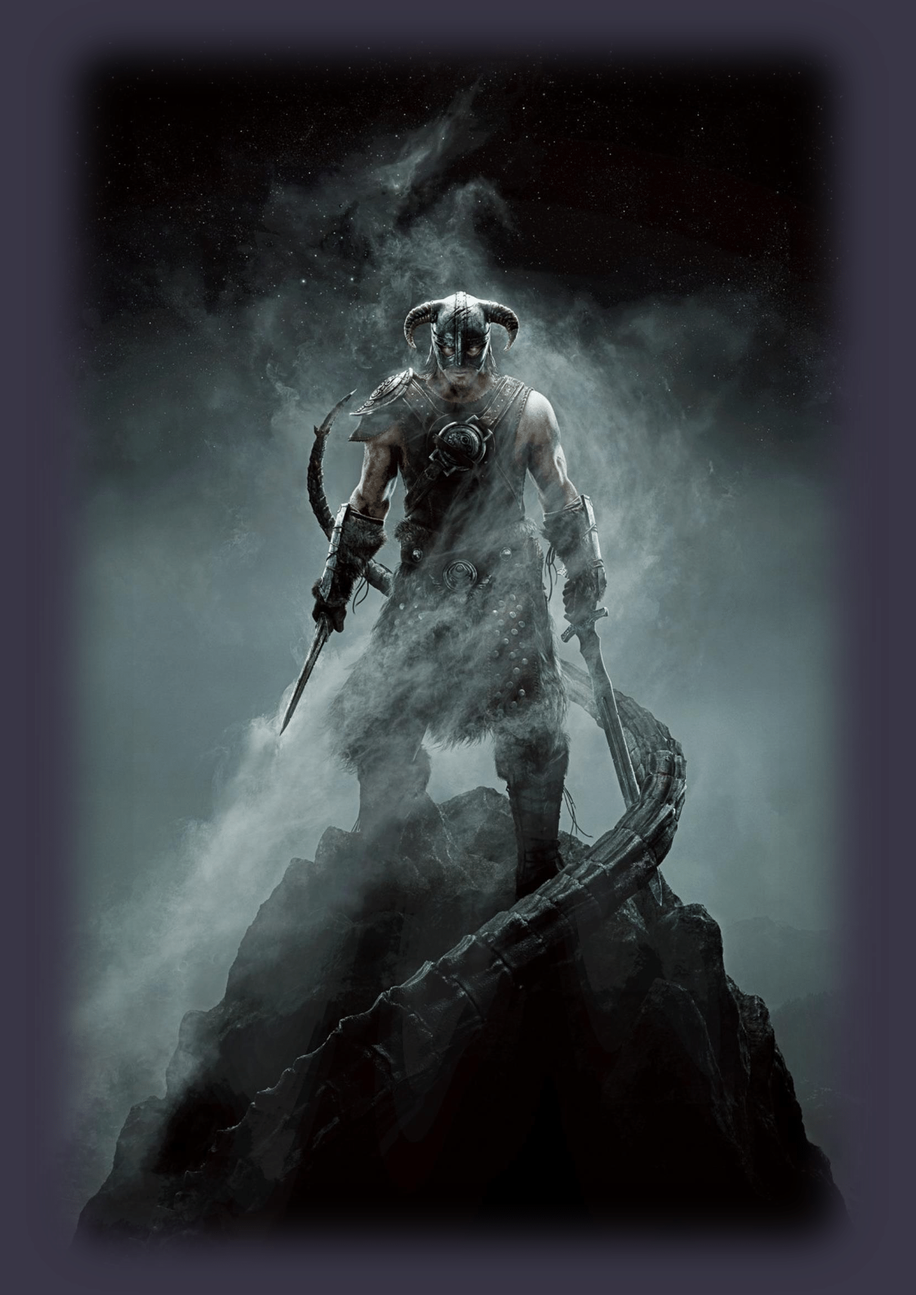
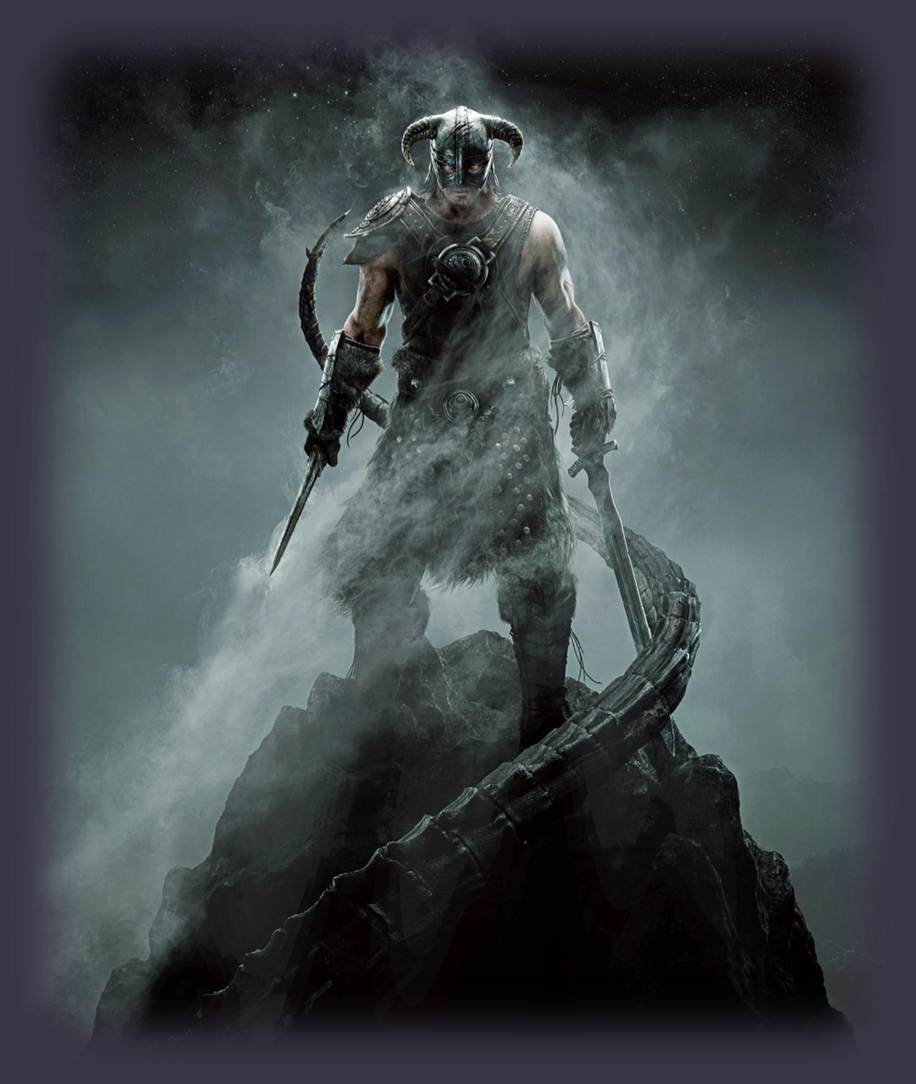
0.0.6

diff --git a/index.html b/index.html
@@ -82,17 +82,14 @@ bottom:0%;
 
 #cont-img {
     opacity: 0.5;
-    height: 600px;
-    width: 500px;
+    height: 750px;
     border-radius: 2%;
-    position: relative;
-    z-index: 1;
+    position: absolute;
 }
 
 .central-img{
     display: flex;
-    position: relative;
-    z-index: 1;
+    justify-content: center;
     
 }
 
@@ -109,8 +106,8 @@ bottom:0%;
     justify-items: center;
     padding: 10px;
     background-color: #343140;
-    box-shadow: 0px 1px 60px 0px #282631;
-    border-radius: 2%;
+    box-shadow: 0px 0px 10px 0px #282631;
+    border-radius: 3%;
     margin-bottom: 10px;
 }
 
@@ -123,8 +120,8 @@ bottom:0%;
     justify-content: space-evenly;
     padding: 10px;
     background-color: #343140;
-    box-shadow: 0px 1px 60px 0px #282631;
-    border-radius: 2%;
+    box-shadow: 0px 0px 10px 0px #282631;
+    border-radius: 3%;
     width: 90%;
     
 }
@@ -307,7 +304,7 @@ text-decoration: none;
 
 #search-container {
     position: relative;
-    width: 60%;
+    width: 70%;
     border: 2px solid #F4EEE0;
     border-radius: 20px;
     padding: 10px 10px 12px 4px;
@@ -352,8 +349,8 @@ input[type=text] {
     padding-right: 0px;
     padding: 10px;
     background-color: #343140;
-    box-shadow: 0px 1px 60px 0px #282631;
-    border-radius: 2%;
+    box-shadow: 0px 0px 10px 0px #282631;
+    border-radius: 3%;
     height: 740px;
     overflow-y: auto;
     }
@@ -513,15 +510,24 @@ text-decoration: underline;
 }
 
 .quote{
-    position: relative;
+    position: absolute;
+    top: 70%;
     z-index: 2;
     border: none;
     color:#D1BB9E;
-    text-decoration: none;
     font-size: 25px;
     font-weight:bold;
     font-family: Copperplate Gothic;
-    text-align: center; 
+    text-align: center;
+    line-height: 35px;
+}
+.little{
+    display: flex;
+    align-items: flex-end;
+    font-family: Copperplate Gothic;
+    color: #F4EEE0;
+    font-size: 20px;
+    margin-bottom: 8%;
 }
 
 </style>
@@ -531,7 +537,7 @@ text-decoration: underline;
             <div class="search-rect">
                 <div id="search-container">
                     <div>
-                        <input type="text" id="search-bar" placeholder="Pesquisar">
+                        <input type="text" id="search-bar" placeholder="Pesquisar...">
                         <button id="search-btn">
                             <i class="fa fa-search" alt="ícone de pesquisa" style="filter: invert(100%) sepia(100%) saturate(20%) hue-rotate(64deg) brightness(103%) contrast(101%);"></i>
                         </button>
@@ -748,8 +754,11 @@ text-decoration: underline;
         
 
         <div class="central-img">
-            <div class= "quote"> jhnonny bravo</div>
-            <img id="cont-img" src="https://i.ibb.co/ft26dRF/Document-1-1.png">
+            <div class= "quote">
+                DESCUBRA NOVAS EXPERIÊNCIAS. <br>SALVE O QUE VOCE QUER JOGAR. <br> RECOMENDE O QUE É BOM.          
+            </div>
+            <img id="cont-img" src="https://i.ibb.co/PcDxvVt/central.png">
+            <div class="little">A rede social feita para você, gamer.</div>
         
         </div>
 
@@ -757,6 +766,7 @@ text-decoration: underline;
             <div class="internal-rect">
                 <div class="title">LISTAS POPULARES</div>
                 <div class="container">
+                    
                     <div class="reviewbox" id="review-box">
                             <div><a href="#"><img src="https://upload.wikimedia.org/wikipedia/en/4/46/Video_Game_Cover_-_The_Last_of_Us.jpg" class="game-cover"></a></div>
                         <div class="review-text">
@@ -771,7 +781,7 @@ text-decoration: underline;
                                   
                                 </div>
                             <div class="rectangle">
-                                <p>Esta é uma resenha do jogo. O jogo foi abandonado no Nintendo Switch. A resenha do jogo. O jogo foi abandonado no Nintendo Switch. Aqui está um resu resenha do jogo. O jogo foi abandonado no Nintendo Switch. Aqui está um resu resenha do jogo. O jogo foi abandonado no Nintendo Switch. Aqui está um resu resenha do jogo. O jogo foi abandonado no Nintendo Switch. Aqui está um resuqui está um resumo da minha experiência...</p>
+                                <p>Lorem ipsum dolor sit amet, consectetur adipisci elit, sed eiusmod tempor incidunt ut labore et dolore magna aliqua. Ut enim ad minim veniam, quis nostrum exercitationem ullam corporis suscipit laboriosam, nisi ut aliquid ex ea commodi consequatur. Quis aute iure reprehenderit in voluptate velit esse cillum dolore eu fugiat nulla pariatur. Excepteur sint obcaecat cupiditat non proident, sunt in culpa qui officia deserunt mollit anim id est laborum.</p>
                             </div>
 
                             <button class="expand-button" onclick="expandText()"><img class="img-expand" style="filter: invert(100%) sepia(100%) saturate(20%) hue-rotate(64deg) brightness(103%) contrast(101%);" src="/expand.png" alt="expand"></button>
@@ -807,7 +817,7 @@ text-decoration: underline;
                               
                             </div>
                         <div class="rectangle">
-                            <p>Esta é uma resenha do jogo. O jogo foi abandonado no Nintendo Switch. A resenha do jogo. O jogo foi abandonado no Nintendo Switch. Aqui está um resu resenha do jogo. O jogo foi abandonado no Nintendo Switch. Aqui está um resu resenha do jogo. O jogo foi abandonado no Nintendo Switch. Aqui está um resu resenha do jogo. O jogo foi abandonado no Nintendo Switch. Aqui está um resuqui está um resumo da minha experiência...</p>
+                            <p>Lorem ipsum dolor sit amet, consectetur adipisci elit, sed eiusmod tempor incidunt ut labore et dolore magna aliqua. Ut enim ad minim veniam, quis nostrum exercitationem ullam corporis suscipit laboriosam, nisi ut aliquid ex ea commodi consequatur. Quis aute iure reprehenderit in voluptate velit esse cillum dolore eu fugiat nulla pariatur. Excepteur sint obcaecat cupiditat non proident, sunt in culpa qui officia deserunt mollit anim id est laborum.</p>
                         </div>
 
                         <button class="expand-button" onclick="expandText()"><img class="img-expand" style="filter: invert(100%) sepia(100%) saturate(20%) hue-rotate(64deg) brightness(103%) contrast(101%);" src="/expand.png" alt="expand"></button>
@@ -828,7 +838,6 @@ text-decoration: underline;
                     </div>
 
                     <div class="horizontal-line"> </div>
-
 
                     <div class="reviewbox" id="review-box">
                         <div><a href="#"><img src="https://upload.wikimedia.org/wikipedia/en/4/46/Video_Game_Cover_-_The_Last_of_Us.jpg" class="game-cover"></a></div>
@@ -844,44 +853,7 @@ text-decoration: underline;
                               
                             </div>
                         <div class="rectangle">
-                            <p>Esta é uma resenha do jogo. O jogo foi abandonado no Nintendo Switch. A resenha do jogo. O jogo foi abandonado no Nintendo Switch. Aqui está um resu resenha do jogo. O jogo foi abandonado no Nintendo Switch. Aqui está um resu resenha do jogo. O jogo foi abandonado no Nintendo Switch. Aqui está um resu resenha do jogo. O jogo foi abandonado no Nintendo Switch. Aqui está um resuqui está um resumo da minha experiência...</p>
-                        </div>
-
-                        <button class="expand-button" onclick="expandText()"><img class="img-expand" style="filter: invert(100%) sepia(100%) saturate(20%) hue-rotate(64deg) brightness(103%) contrast(101%);" src="/expand.png" alt="expand"></button>
-
-                        <div class="info2" >
-                            <div class="rating">★★★★☆</div>
-                            <div class="info">
-                                <div class="info">
-                                    <a href="#"> <img class="interaction"src="https://icons.iconarchive.com/icons/custom-icon-design/mono-business-2/256/thumbs-up-icon.png" alt="like"></a>
-                                    <div class="likes">10 likes</div>
-                                </div>
-
-                                    <a href="#"> <img class="interaction"src="https://cdn-icons-png.flaticon.com/512/54/54916.png" alt="like"></a>
-                            </div>
-                        </div>
-
-                    </div>
-                    </div>
-
-                    <div class="horizontal-line"> </div>
-
-
-                    <div class="reviewbox" id="review-box">
-                        <div><a href="#"><img src="https://upload.wikimedia.org/wikipedia/en/4/46/Video_Game_Cover_-_The_Last_of_Us.jpg" class="game-cover"></a></div>
-                    <div class="review-text">
-                            <div class="review-writer">
-                                <a class="name-game" href="#">The Last Of Us </a>
-                                    <h2 class="owner" >
-                                        Por
-                                        <a class="username" href="#">
-                                            Fulano
-                                        </a>
-                                    </h2>
-                            
-                            </div>
-                        <div class="rectangle">
-                            <p>Esta é uma resenha do jogo. O jogo foi abandonado no Nintendo Switch. A resenha do jogo. O jogo foi abandonado no Nintendo Switch. Aqui está um resu resenha do jogo. O jogo foi abandonado no Nintendo Switch. Aqui está um resu resenha do jogo. O jogo foi abandonado no Nintendo Switch. Aqui está um resu resenha do jogo. O jogo foi abandonado no Nintendo Switch. Aqui está um resuqui está um resumo da minha experiência...</p>
+                            <p>Lorem ipsum dolor sit amet, consectetur adipisci elit, sed eiusmod tempor incidunt ut labore et dolore magna aliqua. Ut enim ad minim veniam, quis nostrum exercitationem ullam corporis suscipit laboriosam, nisi ut aliquid ex ea commodi consequatur. Quis aute iure reprehenderit in voluptate velit esse cillum dolore eu fugiat nulla pariatur. Excepteur sint obcaecat cupiditat non proident, sunt in culpa qui officia deserunt mollit anim id est laborum.</p>
                         </div>
 
                         <button class="expand-button" onclick="expandText()"><img class="img-expand" style="filter: invert(100%) sepia(100%) saturate(20%) hue-rotate(64deg) brightness(103%) contrast(101%);" src="/expand.png" alt="expand"></button>
@@ -914,10 +886,10 @@ text-decoration: underline;
                                             Fulano
                                         </a>
                                     </h2>
-                            
+                              
                             </div>
                         <div class="rectangle">
-                            <p>Esta é uma resenha do jogo. O jogo foi abandonado no Nintendo Switch. A resenha do jogo. O jogo foi abandonado no Nintendo Switch. Aqui está um resu resenha do jogo. O jogo foi abandonado no Nintendo Switch. Aqui está um resu resenha do jogo. O jogo foi abandonado no Nintendo Switch. Aqui está um resu resenha do jogo. O jogo foi abandonado no Nintendo Switch. Aqui está um resuqui está um resumo da minha experiência...</p>
+                            <p>Lorem ipsum dolor sit amet, consectetur adipisci elit, sed eiusmod tempor incidunt ut labore et dolore magna aliqua. Ut enim ad minim veniam, quis nostrum exercitationem ullam corporis suscipit laboriosam, nisi ut aliquid ex ea commodi consequatur. Quis aute iure reprehenderit in voluptate velit esse cillum dolore eu fugiat nulla pariatur. Excepteur sint obcaecat cupiditat non proident, sunt in culpa qui officia deserunt mollit anim id est laborum.</p>
                         </div>
 
                         <button class="expand-button" onclick="expandText()"><img class="img-expand" style="filter: invert(100%) sepia(100%) saturate(20%) hue-rotate(64deg) brightness(103%) contrast(101%);" src="/expand.png" alt="expand"></button>
@@ -937,8 +909,41 @@ text-decoration: underline;
                     </div>
                     </div>
 
-                    
+                    <div class="horizontal-line"> </div>
 
+                    <div class="reviewbox" id="review-box">
+                        <div><a href="#"><img src="https://upload.wikimedia.org/wikipedia/en/4/46/Video_Game_Cover_-_The_Last_of_Us.jpg" class="game-cover"></a></div>
+                    <div class="review-text">
+                            <div class="review-writer">
+                                <a class="name-game" href="#">The Last Of Us </a>
+                                    <h2 class="owner" >
+                                        Por
+                                        <a class="username" href="#">
+                                            Fulano
+                                        </a>
+                                    </h2>
+                              
+                            </div>
+                        <div class="rectangle">
+                            <p>Lorem ipsum dolor sit amet, consectetur adipisci elit, sed eiusmod tempor incidunt ut labore et dolore magna aliqua. Ut enim ad minim veniam, quis nostrum exercitationem ullam corporis suscipit laboriosam, nisi ut aliquid ex ea commodi consequatur. Quis aute iure reprehenderit in voluptate velit esse cillum dolore eu fugiat nulla pariatur. Excepteur sint obcaecat cupiditat non proident, sunt in culpa qui officia deserunt mollit anim id est laborum.</p>
+                        </div>
+
+                        <button class="expand-button" onclick="expandText()"><img class="img-expand" style="filter: invert(100%) sepia(100%) saturate(20%) hue-rotate(64deg) brightness(103%) contrast(101%);" src="/expand.png" alt="expand"></button>
+
+                        <div class="info2" >
+                            <div class="rating">★★★★☆</div>
+                            <div class="info">
+                                <div class="info">
+                                    <a href="#"> <img class="interaction"src="https://icons.iconarchive.com/icons/custom-icon-design/mono-business-2/256/thumbs-up-icon.png" alt="like"></a>
+                                    <div class="likes">10 likes</div>
+                                </div>
+
+                                    <a href="#"> <img class="interaction"src="https://cdn-icons-png.flaticon.com/512/54/54916.png" alt="like"></a>
+                            </div>
+                        </div>
+
+                    </div>
+                    </div>
 
                 </div>
             </div>
